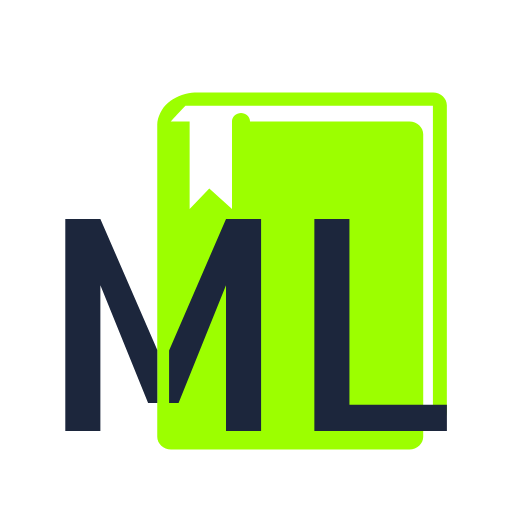
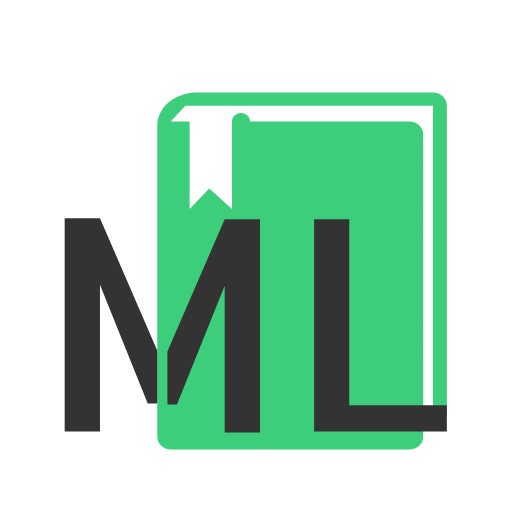
Google Sign In

Changed region(s): [[0.2812, 0.1562, 0.875, 0.9062], [0.125, 0.4062, 0.1562, 0.8438], [0.1875, 0.5625, 0.2188, 0.8438]]

diff --git a/templates/index.html b/templates/index.html
@@ -1,35 +1,19 @@
 <!DOCTYPE html>
 <html lang="en">
 <head>
-    <meta name="google-signin-client_id"
-          content="318274972846-q5qllaspjo6nptvddav5p7ipbigjlli3.apps.googleusercontent.com">
-    <link href="https://fonts.googleapis.com/css?family=IBM+Plex+Sans&display=swap" rel="stylesheet">
-    <link rel="shortcut icon" href="/static/img/MetaLib.png" type="image/x-icon">
-    <script src="https://apis.google.com/js/platform.js" async defer></script>
     <meta name="viewport" content="width=device-width, initial-scale=1.0">
+    <link href="https://fonts.googleapis.com/css?family=IBM+Plex+Sans&display=swap" rel="stylesheet">
     <link rel="stylesheet" href="/static/css/style.css">
+    <link rel="shortcut icon" href="/static/img/MetaLib.png" type="image/x-icon">
+    <meta name="theme-color" content="#333333">
+
     <script src="/static/libs/jquery.min.js"></script>
-    <meta name="theme-color" content="#1C263C">
+    <script src="https://apis.google.com/js/api:client.js"></script>
+
     <meta charset="UTF-8">
     <title>MetaLib</title>
-    <script>
-        $(document).ready(function() {
-            if ($(window).width() < 560) {
-                $("#login").detach().appendTo("#header");
-            }
-
-            $(window).resize(function () {
-                if ($(window).width() < 512) {
-                    $("#login").detach().appendTo("#header");
-                } else if ($(window).width() >= 512) {
-                    $("#login").detach().appendTo("#user");
-                }
-            });
-        });
-    </script>
 </head>
 <body>
-
 
 <div class="top-box container">
     <div class="logo">
@@ -37,8 +21,13 @@
         <h1 class="logo-name">MetaLib</h1>
     </div>
     <div class="user" id="user">
-        <div class="g-signin2" data-onsuccess="onSignIn" id="login"></div>
-        {{/*<a href="#" onclick="signOut();">Sign out</a>*/}}
+        {{/*        <a href="#" onclick="signOut();">Sign out</a>*/}}
+        <div class="login-btn header-item" id="login">
+            <a href="#sign-in">
+                <img src="/static/img/google.svg" alt="Google">
+                <span id="login-text">Sign In</span>
+            </a>
+        </div>
     </div>
 </div>
 
@@ -48,32 +37,71 @@
     <div class="header-item"><a href="#">Libraries</a></div>
 </header>
 
+<script>
+    let minWidth = 516;
+
+    let loginBtn = document.getElementById('login');
+    let headerDiv = document.getElementById('header');
+    let userDiv = document.getElementById('user');
+
+    if (window.innerWidth <= minWidth) {
+        headerDiv.appendChild(loginBtn);
+    }
+
+    window.onresize = function() {
+        if (window.innerWidth <= minWidth) {
+            headerDiv.appendChild(loginBtn);
+        }else {
+            userDiv.appendChild(loginBtn);
+        }
+    };
+</script>
 
 <form action="" class="search-box container">
     <input type="text" name="" class="search-bar" placeholder="Search...">
     <input type="submit" value="" class="search-btn">
 </form>
 
-
 <div class="content container">
     Hello World
 </div>
 
 <script>
-    function onSignIn(googleUser) {
-        var profile = googleUser.getBasicProfile();
-        console.log('ID: ' + profile.getId()); // Do not send to your backend! Use an ID token instead.
-        console.log('Name: ' + profile.getName());
-        console.log('Image URL: ' + profile.getImageUrl());
-        console.log('Email: ' + profile.getEmail()); // This is null if the 'email' scope is not present.
+    function onSignIn(user) {
+        $('#login-text').text('Signed in');
+        let token = user.getAuthResponse().id_token;
+
+        $.ajax({
+            type: 'POST',
+            url: 'func/auth',
+            data: `token=${token}`
+        });
+    }
+
+    function onFailSignIn(error) {
+        $('#login-text').text('Failed');
+        console.error(error);
     }
 
     function signOut() {
-        var auth2 = gapi.auth2.getAuthInstance();
+        let auth2 = gapi.auth2.getAuthInstance();
         auth2.signOut().then(function () {
+            $('#login-text').text('Sign In');
             console.log('User signed out.');
         });
     }
+
+    $(document).ready(function () {
+        // Google auth
+        gapi.load('auth2', function () {
+            let auth2 = gapi.auth2.init({
+                client_id: '{{.ClientID}}'
+            });
+
+            let loginBtn = document.getElementById('login');
+            auth2.attachClickHandler(loginBtn, {}, onSignIn, onFailSignIn);
+        });
+    });
 </script>
 
 </body>

diff --git a/static/css/style.css b/static/css/style.css
@@ -6,7 +6,7 @@
 
     --black: #212121;
     --shadow: 0 2px 4px 0 rgba(0,0,0,.25);
-    /*--border: 1px solid #c2c8ce;*/
+    --shadow-active: 0 2px 4px 0 #3cce7b;
 }
 
 html, body {
@@ -18,6 +18,7 @@ html, body {
     font-family: 'IBM Plex Sans', sans-serif;
     box-sizing: border-box;
     outline: none;
+    -webkit-tap-highlight-color: transparent;
 }
 
 input::-moz-focus-inner {
@@ -68,6 +69,10 @@ a {
     height: 2.8rem;
 }
 
+.header-item:hover {
+    box-shadow: var(--shadow-active);
+}
+
 .header-item a {
     width: 100%;
     height: 100%;
@@ -77,8 +82,12 @@ a {
     align-items: center;
 }
 
-#header #login {
-    margin: auto;
+.user .login-btn {
+    width: 8.4rem;
+}
+
+.login-btn img {
+    margin-right: 1rem;
 }
 
 .search-box {
@@ -107,6 +116,10 @@ a {
     border: none;
     box-shadow: var(--shadow);
     cursor: pointer;
+}
+
+.search-bar:hover, .search-btn:hover, .search-bar:focus{
+    box-shadow: var(--shadow-active);
 }
 
 /* Content */

diff --git a/main.go b/main.go
@@ -1,6 +1,8 @@
 package main
 
 import (
+	"fmt"
+	"github.com/futurenda/google-auth-id-token-verifier"
 	"github.com/gorilla/mux"
 	log "github.com/sirupsen/logrus"
 	"github.com/t-tomalak/logrus-easy-formatter"
@@ -12,20 +14,28 @@ import (
 func init() {
 	log.SetFormatter(&easy.Formatter{
 		TimestampFormat: "2006-01-02 15:04:05",
-		LogFormat:       "[%lvl%]: %time% - %msg%",
+		LogFormat:       "[%lvl%]: %time% - %msg%\n",
 	})
 }
 
 var templates *template.Template
+var gVerifier googleAuthIDTokenVerifier.Verifier
+
+const (
+	GOOGLE_CLIENT_ID = "318274972846-q5qllaspjo6nptvddav5p7ipbigjlli3.apps.googleusercontent.com"
+)
 
 func main() {
 	port := os.Getenv("PORT")
+
+	gVerifier = googleAuthIDTokenVerifier.Verifier{}
 
 	templates = template.Must(template.ParseGlob("templates/*.html"))
 
 	r := mux.NewRouter()
 
 	r.HandleFunc("/", indexGetHandler).Methods("GET")
+	r.HandleFunc("/func/auth", authPostHandler).Methods("POST")
 
 	fs := http.FileServer(http.Dir("./static/"))
 	r.PathPrefix("/static/").Handler(http.StripPrefix("/static/", fs))
@@ -40,8 +50,22 @@ func main() {
 }
 
 func indexGetHandler(w http.ResponseWriter, r *http.Request) {
-	err := templates.ExecuteTemplate(w, "index.html", nil)
+	data := struct {
+		ClientID string
+	}{GOOGLE_CLIENT_ID}
+	err := templates.ExecuteTemplate(w, "index.html", data)
 	if err != nil {
 		log.Fatal(err)
+	}
+}
+
+func authPostHandler(w http.ResponseWriter, r *http.Request) {
+	token := r.PostFormValue("token")
+	err := gVerifier.VerifyIDToken(token, []string{GOOGLE_CLIENT_ID,})
+	if err == nil {
+		user, err := googleAuthIDTokenVerifier.Decode(token)
+		if err == nil {
+			fmt.Println(user.Sub)
+		}
 	}
 }
